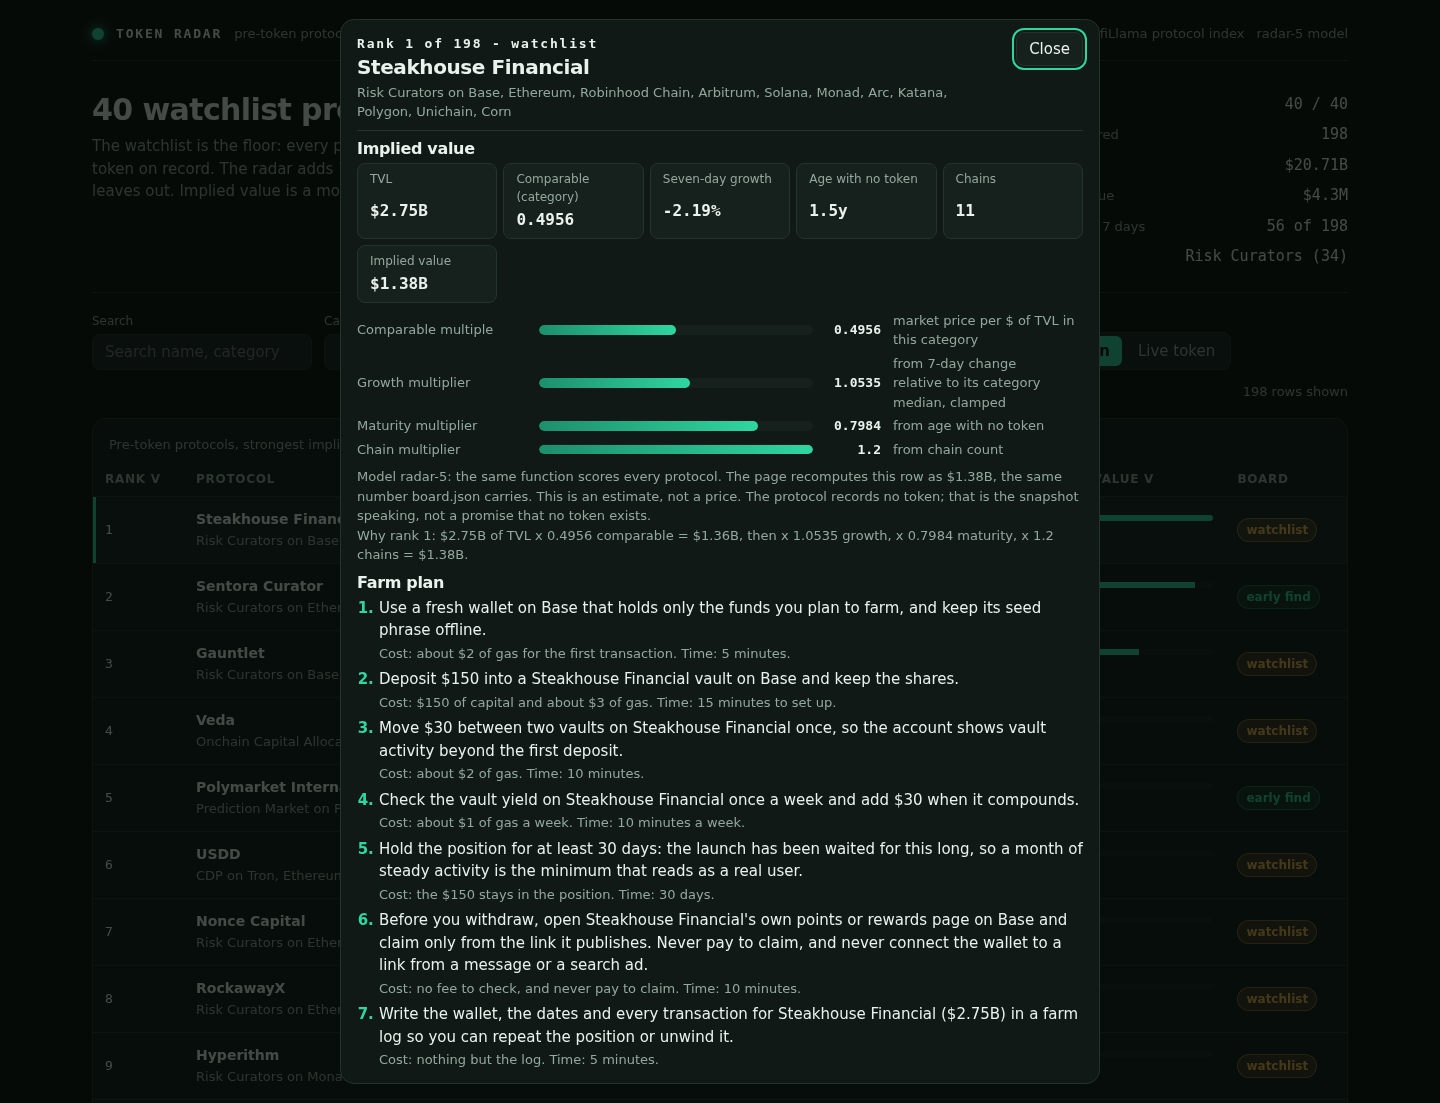
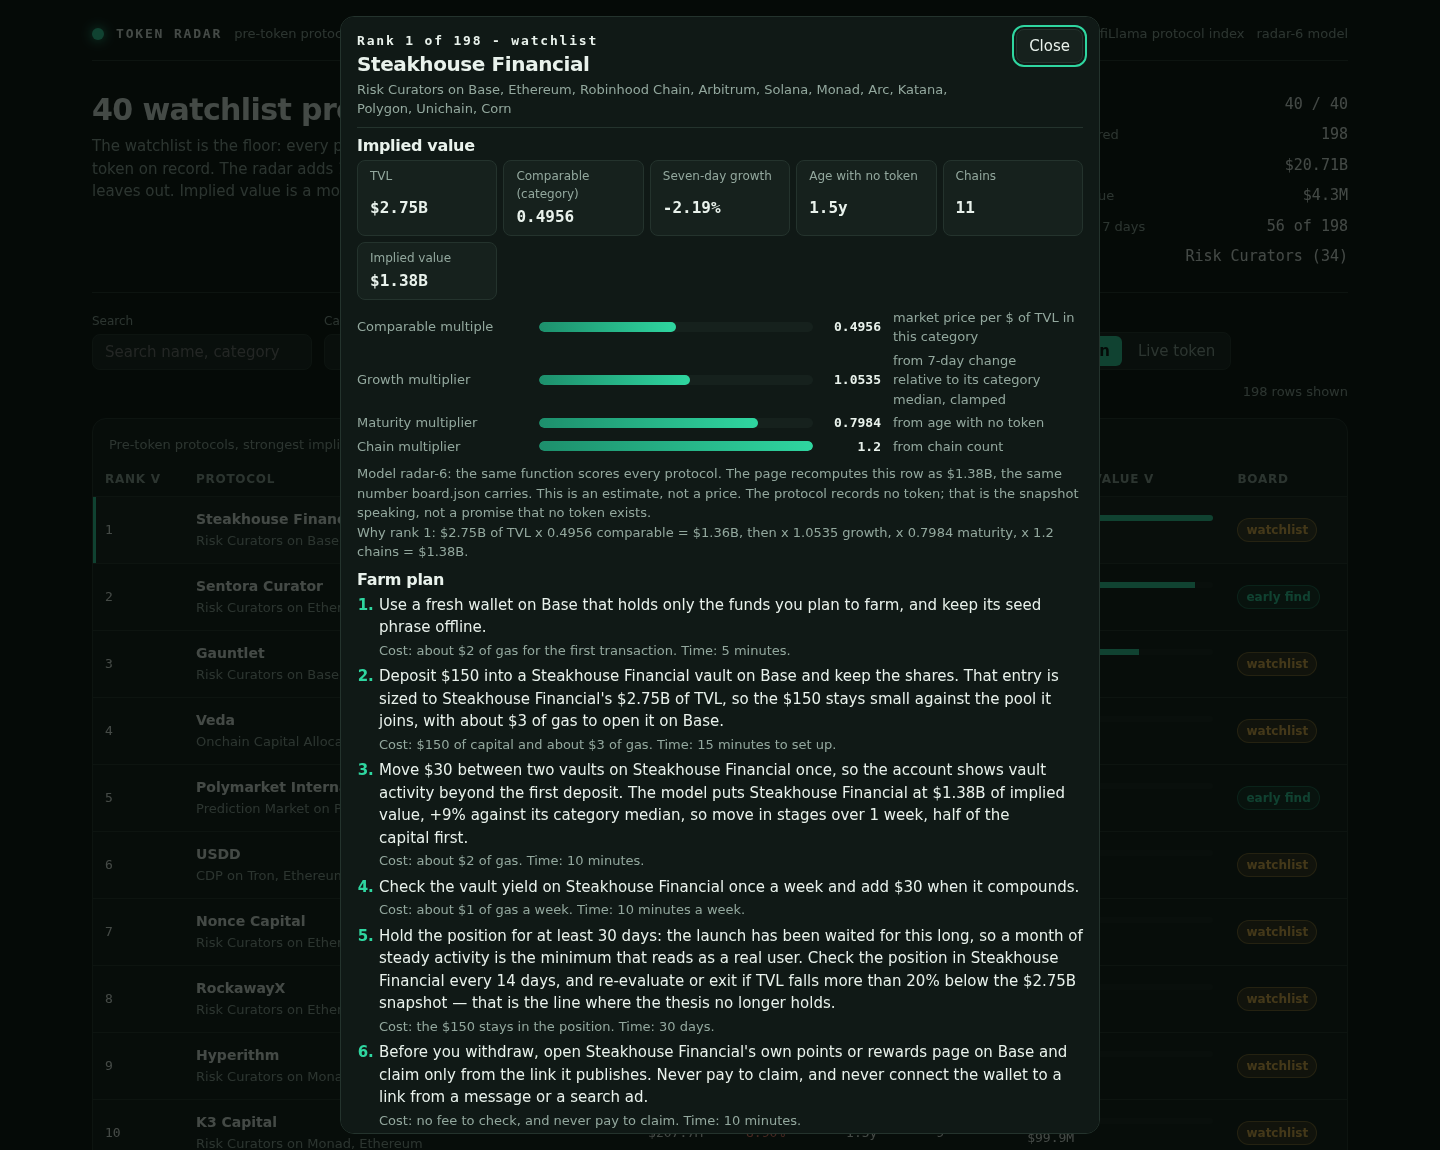
Token Radar radar-6: farm plan steps 2/3/5 per-row, README model label radar-6

diff --git a/lib/model.ts b/lib/model.ts
@@ -99,7 +99,7 @@ export const MODEL: ModelConstants = {
 };
 
 /** The model's version label: the dashboard names it and the rules quote it. */
-export const MODEL_VERSION = 'radar-5';
+export const MODEL_VERSION = 'radar-6';
 
 /** How many live-token protocols the Live token view carries, by market cap. */
 export const LIVE_ROWS = 30;
@@ -379,7 +379,7 @@ export function buildBoard(snapshot: Snapshot, model: ModelConstants = MODEL): B
       chain_multiplier: round4(s.chainMult),
       age_days: s.age,
     },
-    farm_steps: farmSteps(s.p, s.age).map(stepText),
+    farm_steps: farmSteps(s.p, s.age, s.growthPct, s.implied).map(stepText),
   }));
 }
 
@@ -497,11 +497,45 @@ function holdText(age: number | null, hold: number): string {
   return `Hold the position for at least ${hold} days: the launch has been waited for this long, so a month of steady activity is the minimum that reads as a real user.`;
 }
 
+/** Which relative-growth band a row sits in: its growth_pct against the category median, never the raw seven-day change. The band only steers the words of steps 3 and 5 — urgency and check cadence — and never touches a model number. */
+export type GrowthBand = 'kuat' | 'positif' | 'datar' | 'lemah';
+
+export function growthBand(growthPct: number): GrowthBand {
+  if (growthPct >= 50) return 'kuat';
+  if (growthPct >= 10) return 'positif';
+  if (growthPct >= -10) return 'datar';
+  return 'lemah';
+}
+
+/** A relative growth figure as a signed whole percent, the way the farm plan prints it. */
+function fmtGrowthPct(growthPct: number): string {
+  const whole = Math.round(growthPct);
+  return `${whole > 0 ? '+' : ''}${whole}%`;
+}
+
+/** How fast to move on the core execution, by band: strong momentum goes in at once, weak momentum goes in small and slow. */
+function urgencyFor(band: GrowthBand): string {
+  if (band === 'kuat') return 'move within 24 hours and put the full position in at once';
+  if (band === 'positif') return 'move within 3 days';
+  if (band === 'datar') return 'move in stages over 1 week, half of the capital first';
+  return 'move in stages over 2 weeks, starting with 25% of the capital';
+}
+
+/** How often to check a held position, in days, by band. */
+function checkEveryDays(band: GrowthBand): number {
+  if (band === 'kuat') return 3;
+  if (band === 'datar') return 14;
+  return 7;
+}
+
 /**
  * A protocol's farm plan: seven steps, each an action with a cost and a time. The plan is derived
  * from the protocol's own record (category, chains, TVL, age), never from a hand-written list of names.
+ * Radar-6: steps 2, 3 and 5 are specific to the row — its own TVL, its own implied value and relative
+ * growth, and the urgency and check cadence its growth band calls for — while steps 1, 4, 6 and 7
+ * keep their radar-5 wording character for character.
  */
-export function farmSteps(p: SnapshotProtocol, age: number | null): FarmStep[] {
+export function farmSteps(p: SnapshotProtocol, age: number | null, growthPct: number, implied: number): FarmStep[] {
   const chain = chainOf(p);
   const capital = capitalFor(p);
   const hold = holdDaysFor(age);
@@ -509,6 +543,7 @@ export function farmSteps(p: SnapshotProtocol, age: number | null): FarmStep[] {
   const action = actionFor(p, capital, chain);
   const second = secondActionFor(p, capital, chain);
   const weekly = weeklyActionFor(p, capital, chain);
+  const band = growthBand(growthPct);
   return [
     {
       text: `Use a fresh wallet on ${chain} that holds only the funds you plan to farm, and keep its seed phrase offline.`,
@@ -516,12 +551,12 @@ export function farmSteps(p: SnapshotProtocol, age: number | null): FarmStep[] {
       time: '5 minutes',
     },
     {
-      text: action,
+      text: `${action} That entry is sized to ${p.name}'s ${tvlShort(p.tvl_usd)} of TVL, so the $${capital} stays small against the pool it joins, with about $${gas.setup} of gas to open it on ${chain}.`,
       cost: `$${capital} of capital and about $${gas.setup} of gas`,
       time: '15 minutes to set up',
     },
     {
-      text: second,
+      text: `${second} The model puts ${p.name} at ${tvlShort(implied)} of implied value, ${fmtGrowthPct(growthPct)} against its category median, so ${urgencyFor(band)}.`,
       cost: `about $${gas.small} of gas`,
       time: '10 minutes',
     },
@@ -531,7 +566,7 @@ export function farmSteps(p: SnapshotProtocol, age: number | null): FarmStep[] {
       time: '10 minutes a week',
     },
     {
-      text: holdText(age, hold),
+      text: `${holdText(age, hold)} Check the position in ${p.name} every ${checkEveryDays(band)} days, and re-evaluate or exit if TVL falls more than 20% below the ${tvlShort(p.tvl_usd)} snapshot — that is the line where the thesis no longer holds.`,
       cost: `the $${capital} stays in the position`,
       time: `${hold} days`,
     },

diff --git a/dashboard/app.js b/dashboard/app.js
@@ -9,7 +9,7 @@
 //      so the "Why rank N" arithmetic a judge checks is the model's arithmetic.
 //   5. Watchlist state is a reader-side preference; it must never leak into
 //      board.json, the dossier, or any artefact the grader reads.
-// Token Radar's dashboard (radar-5). It reads window.RADAR (written beside dashboard/ by
+// Token Radar's dashboard (radar-6). It reads window.RADAR (written beside dashboard/ by
 // main.ts) and renders the ranked board, a filterable and sortable table, a per-protocol detail
 // view with the model's own inputs and the protocol's farm plan, and a live-token view set apart
 // from the ranking. No network: every byte it shows is in data.js. No protocol name is
@@ -74,7 +74,30 @@
   }
 
   // The farm plan is the same derivation main.ts writes to board.json: category, chains, TVL and
-  // age decide the actions, the capital, the hold and every cost and time. No name is special-cased.
+  // age decide the actions, the capital, the hold and every cost and time, and radar-6 makes
+  // steps 2, 3 and 5 specific to the row — its own TVL, implied value and relative growth, with
+  // the urgency and check cadence its growth band calls for. No name is special-cased.
+  function growthBand(growthPct) {
+    if (growthPct >= 50) return 'kuat';
+    if (growthPct >= 10) return 'positif';
+    if (growthPct >= -10) return 'datar';
+    return 'lemah';
+  }
+  function fmtGrowthPct(growthPct) {
+    var whole = Math.round(growthPct);
+    return (whole > 0 ? '+' : '') + whole + '%';
+  }
+  function urgencyFor(band) {
+    if (band === 'kuat') return 'move within 24 hours and put the full position in at once';
+    if (band === 'positif') return 'move within 3 days';
+    if (band === 'datar') return 'move in stages over 1 week, half of the capital first';
+    return 'move in stages over 2 weeks, starting with 25% of the capital';
+  }
+  function checkEveryDays(band) {
+    if (band === 'kuat') return 3;
+    if (band === 'datar') return 14;
+    return 7;
+  }
   function chainOf(p) { return p.chains && p.chains.length > 0 ? p.chains[0] : 'its main chain'; }
   function capitalFor(p) {
     if (p.tvl_usd >= 5e9) return 250;
@@ -157,12 +180,15 @@
     var capital = capitalFor(p);
     var hold = holdDaysFor(p.age_days);
     var gas = gasFor(chain);
+    var band = growthBand(p.growth_pct === null || p.growth_pct === undefined ? 0 : p.growth_pct);
+    var action = actionFor(p, capital, chain);
+    var second = secondActionFor(p, capital, chain);
     return [
       { text: 'Use a fresh wallet on ' + chain + ' that holds only the funds you plan to farm, and keep its seed phrase offline.', cost: gasSetupFor(chain), time: '5 minutes' },
-      { text: actionFor(p, capital, chain), cost: '$' + capital + ' of capital and about $' + gas.setup + ' of gas', time: '15 minutes to set up' },
-      { text: secondActionFor(p, capital, chain), cost: 'about $' + gas.small + ' of gas', time: '10 minutes' },
+      { text: action + ' That entry is sized to ' + p.name + "'s " + fmtUsd(p.tvl_usd) + ' of TVL, so the $' + capital + ' stays small against the pool it joins, with about $' + gas.setup + ' of gas to open it on ' + chain + '.', cost: '$' + capital + ' of capital and about $' + gas.setup + ' of gas', time: '15 minutes to set up' },
+      { text: second + ' The model puts ' + p.name + ' at ' + fmtUsd(p.implied_value_usd) + ' of implied value, ' + fmtGrowthPct(p.growth_pct === null || p.growth_pct === undefined ? 0 : p.growth_pct) + ' against its category median, so ' + urgencyFor(band) + '.', cost: 'about $' + gas.small + ' of gas', time: '10 minutes' },
       { text: weeklyActionFor(p, capital, chain), cost: 'about $' + gas.weekly + ' of gas a week', time: '10 minutes a week' },
-      { text: holdText(p.age_days, hold), cost: 'the $' + capital + ' stays in the position', time: hold + ' days' },
+      { text: holdText(p.age_days, hold) + ' Check the position in ' + p.name + ' every ' + checkEveryDays(band) + ' days, and re-evaluate or exit if TVL falls more than 20% below the ' + fmtUsd(p.tvl_usd) + ' snapshot — that is the line where the thesis no longer holds.', cost: 'the $' + capital + ' stays in the position', time: hold + ' days' },
       { text: "Before you withdraw, open " + p.name + "'s own points or rewards page on " + chain + " and claim only from the link it publishes. Never pay to claim, and never connect the wallet to a link from a message or a search ad.", cost: 'no fee to check, and never pay to claim', time: '10 minutes' },
       { text: 'Write the wallet, the dates and every transaction for ' + p.name + ' (' + fmtUsd(p.tvl_usd) + ') in a farm log so you can repeat the position or unwind it.', cost: 'nothing but the log', time: '5 minutes' }
     ].map(stepText);

diff --git a/README.md b/README.md
@@ -15,15 +15,15 @@ its cost and its time.
 - 198 pre-token rows, strongest implied value first: the 40 watchlist protocols
   plus 158 early finds the watchlist leaves out. The watchlist is the floor,
   never the ceiling.
-- Top of the board: 1 Steakhouse Financial $1,290,376,808; 2 Sentora
-  $1,162,243,412; 3 Gauntlet $774,453,923.
+- Top of the board: 1 Steakhouse Financial $1,377,552,256; 2 Sentora
+  $1,238,643,887; 3 Gauntlet $824,394,504.
 - 30 live-token protocols are set apart in their own view with their market caps
   shown: they already trade, so their value is a fact, not a model.
 - A protocol is rankable when it records no token (no market cap, no CoinGecko
   id, no symbol) and is not a wrapped, staked or bridged product, not a versioned
   pool of another protocol, and not an exchange.
 
-## The model (radar-5)
+## The model (radar-6)
 
     implied = round( tvl_usd x comparable(category)
                      x (1 + clamp(change_7d, -60, 150) / 100 x 0.6)
